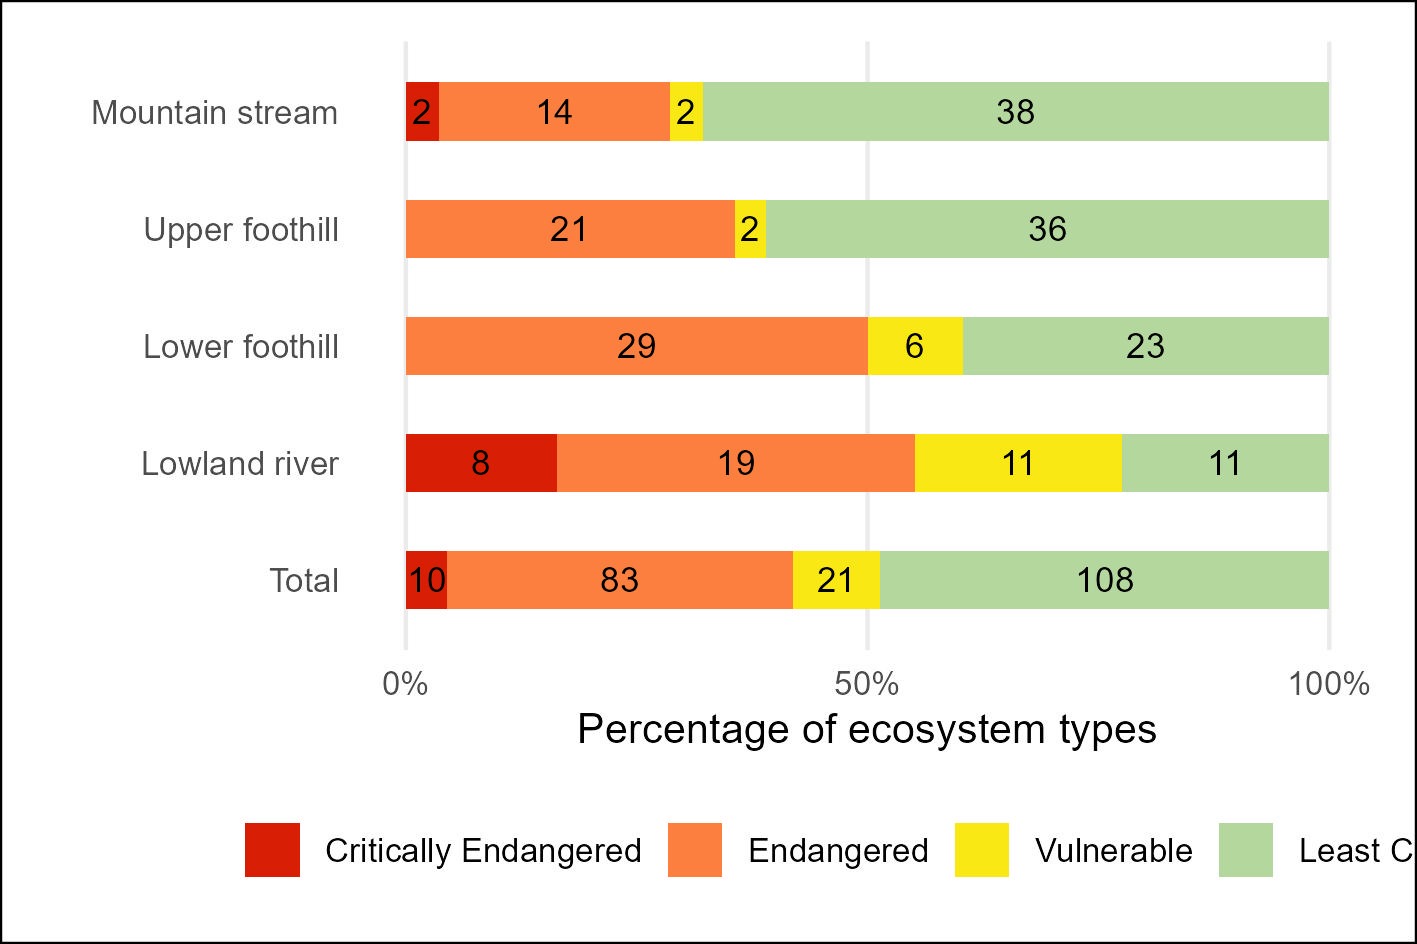
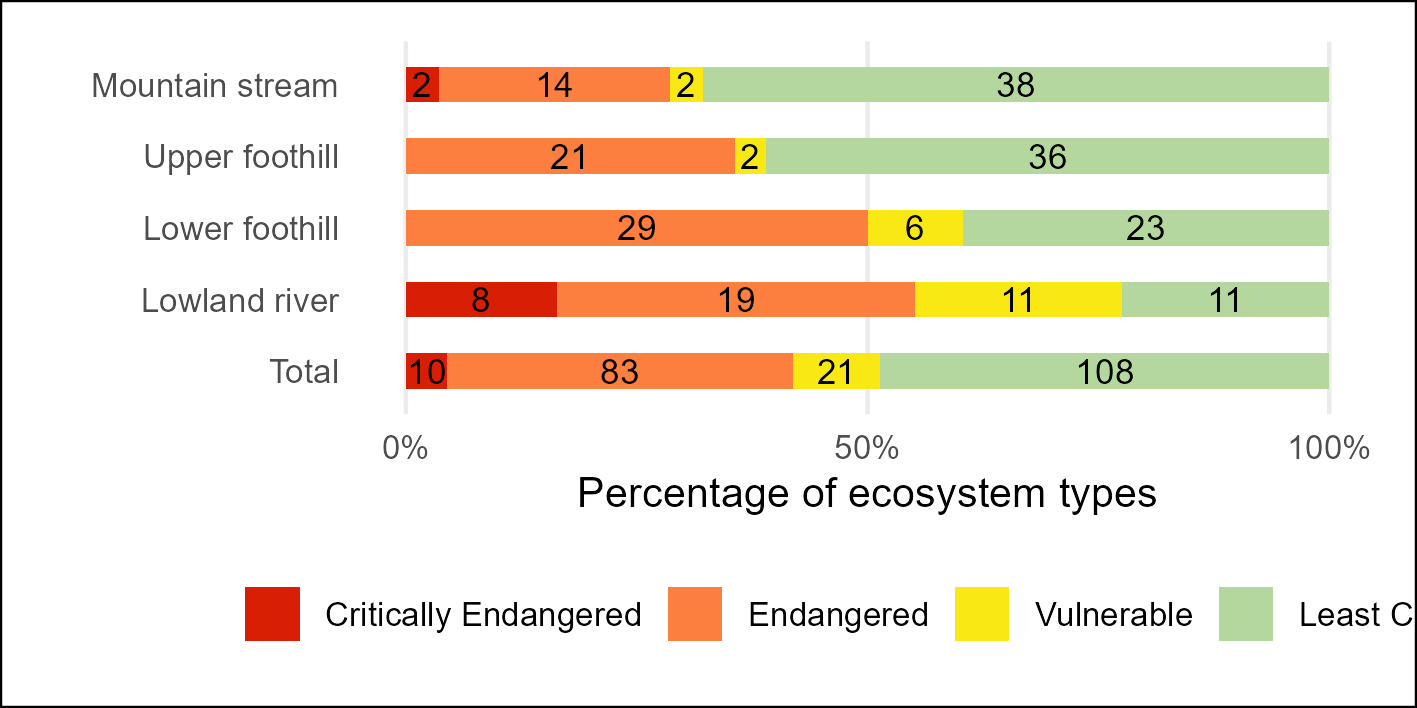
ud plots

diff --git a/README.md b/README.md
@@ -24,8 +24,8 @@ Overall per-ecosystem type Threat Status 2024 results using South African method
 
 Summary table - count of river ecosystem types per slope zone per South African RLE category [rle24_sa_riv_count.csv](outputs/rle24_sa_riv_count.csv)
 
-![Ecosystem Threat Status - Rivers 2024 (South African framework)](outputs/rle24sa_riv_barplot_count.jpeg)
+![Ecosystem Threat Status - Rivers 2024 (South African framework)](outputs/rle24sa_riv_barplot_count.jpeg){width="379"}
 
 Summary table - count of river ecosystem types per slope zone per IUCN RLE category [rle24_riv_count.csv](outputs/rle24_riv_count.csv)
 
-![RLE for Rivers 2024 (IUCN RLE v2)](outputs/rle24_riv_barplot_count.jpeg)
+![RLE  - Rivers 2024 (IUCN RLE v2)](outputs/rle24_riv_barplot_count.jpeg){width="374"}
